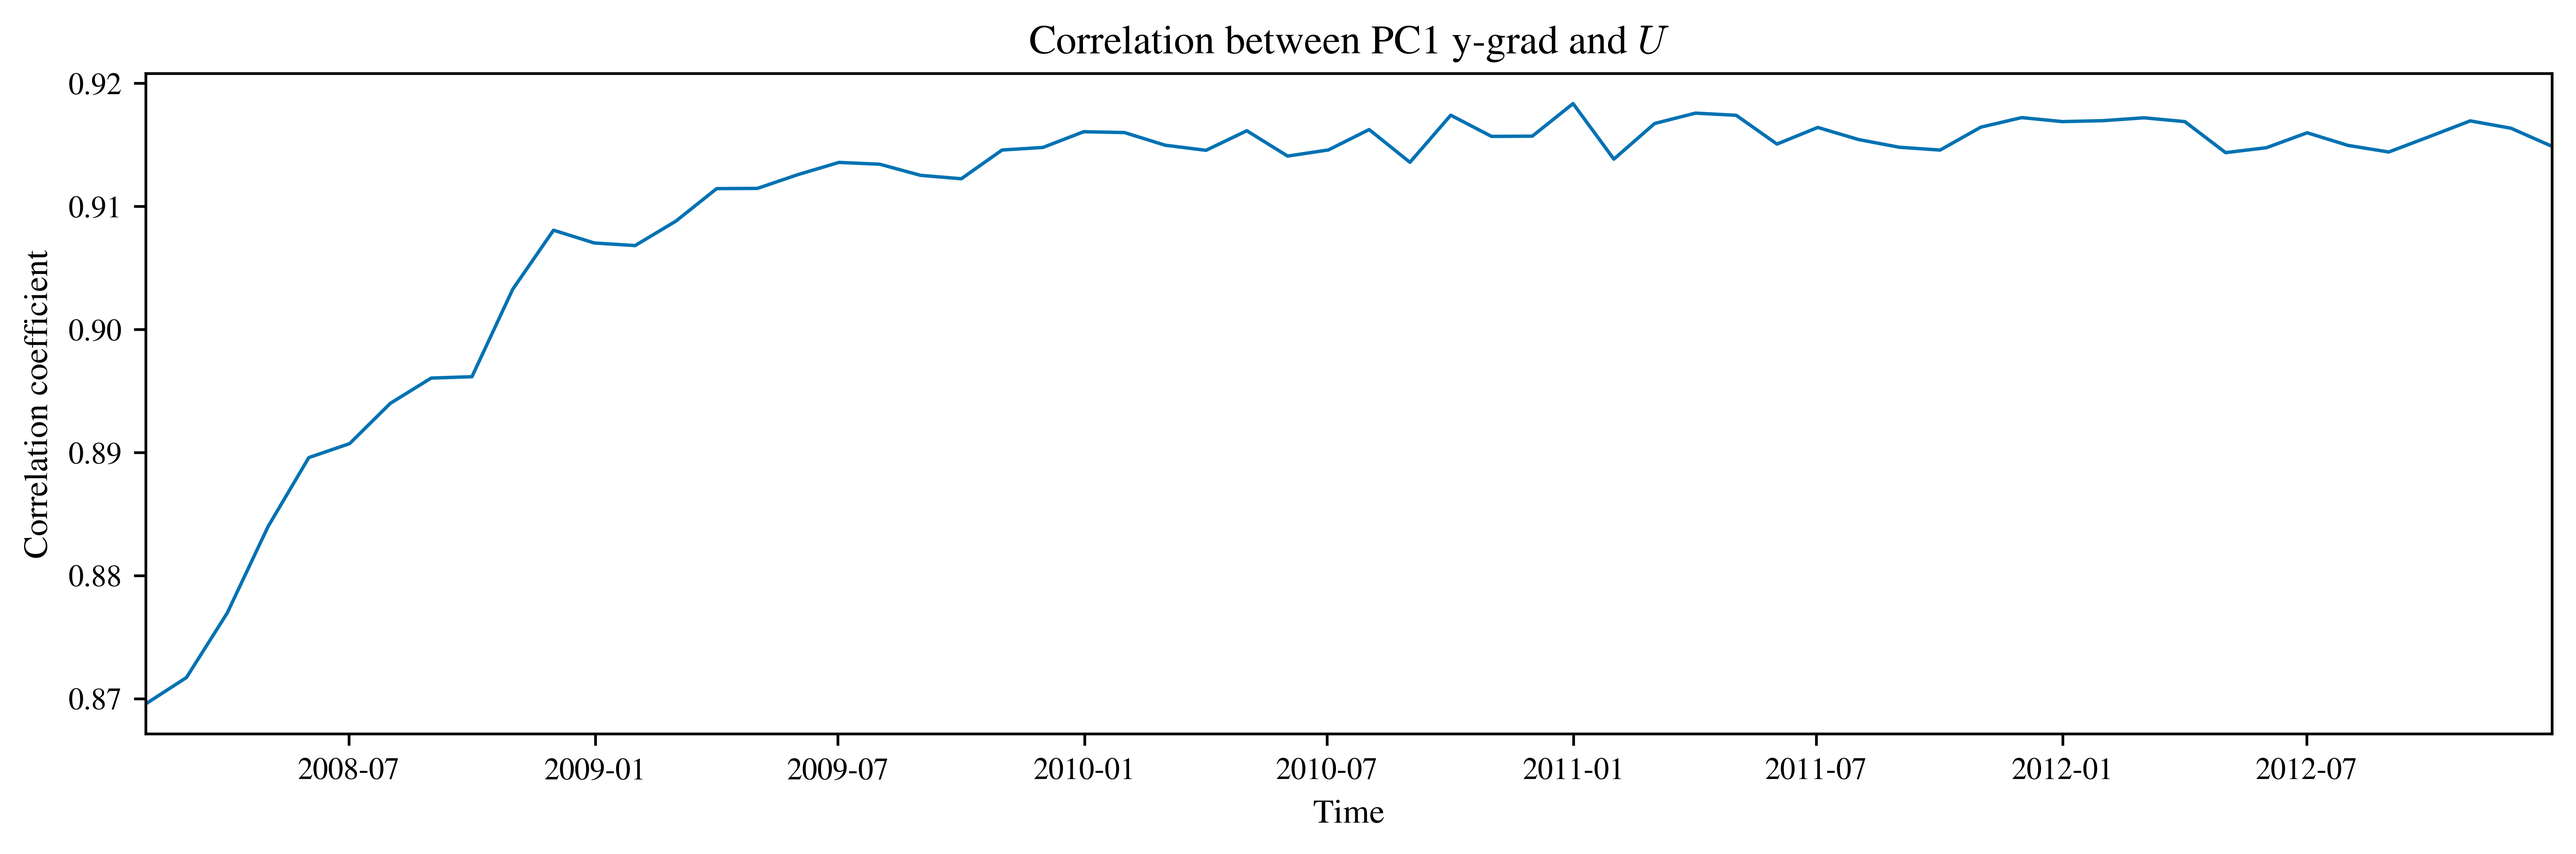
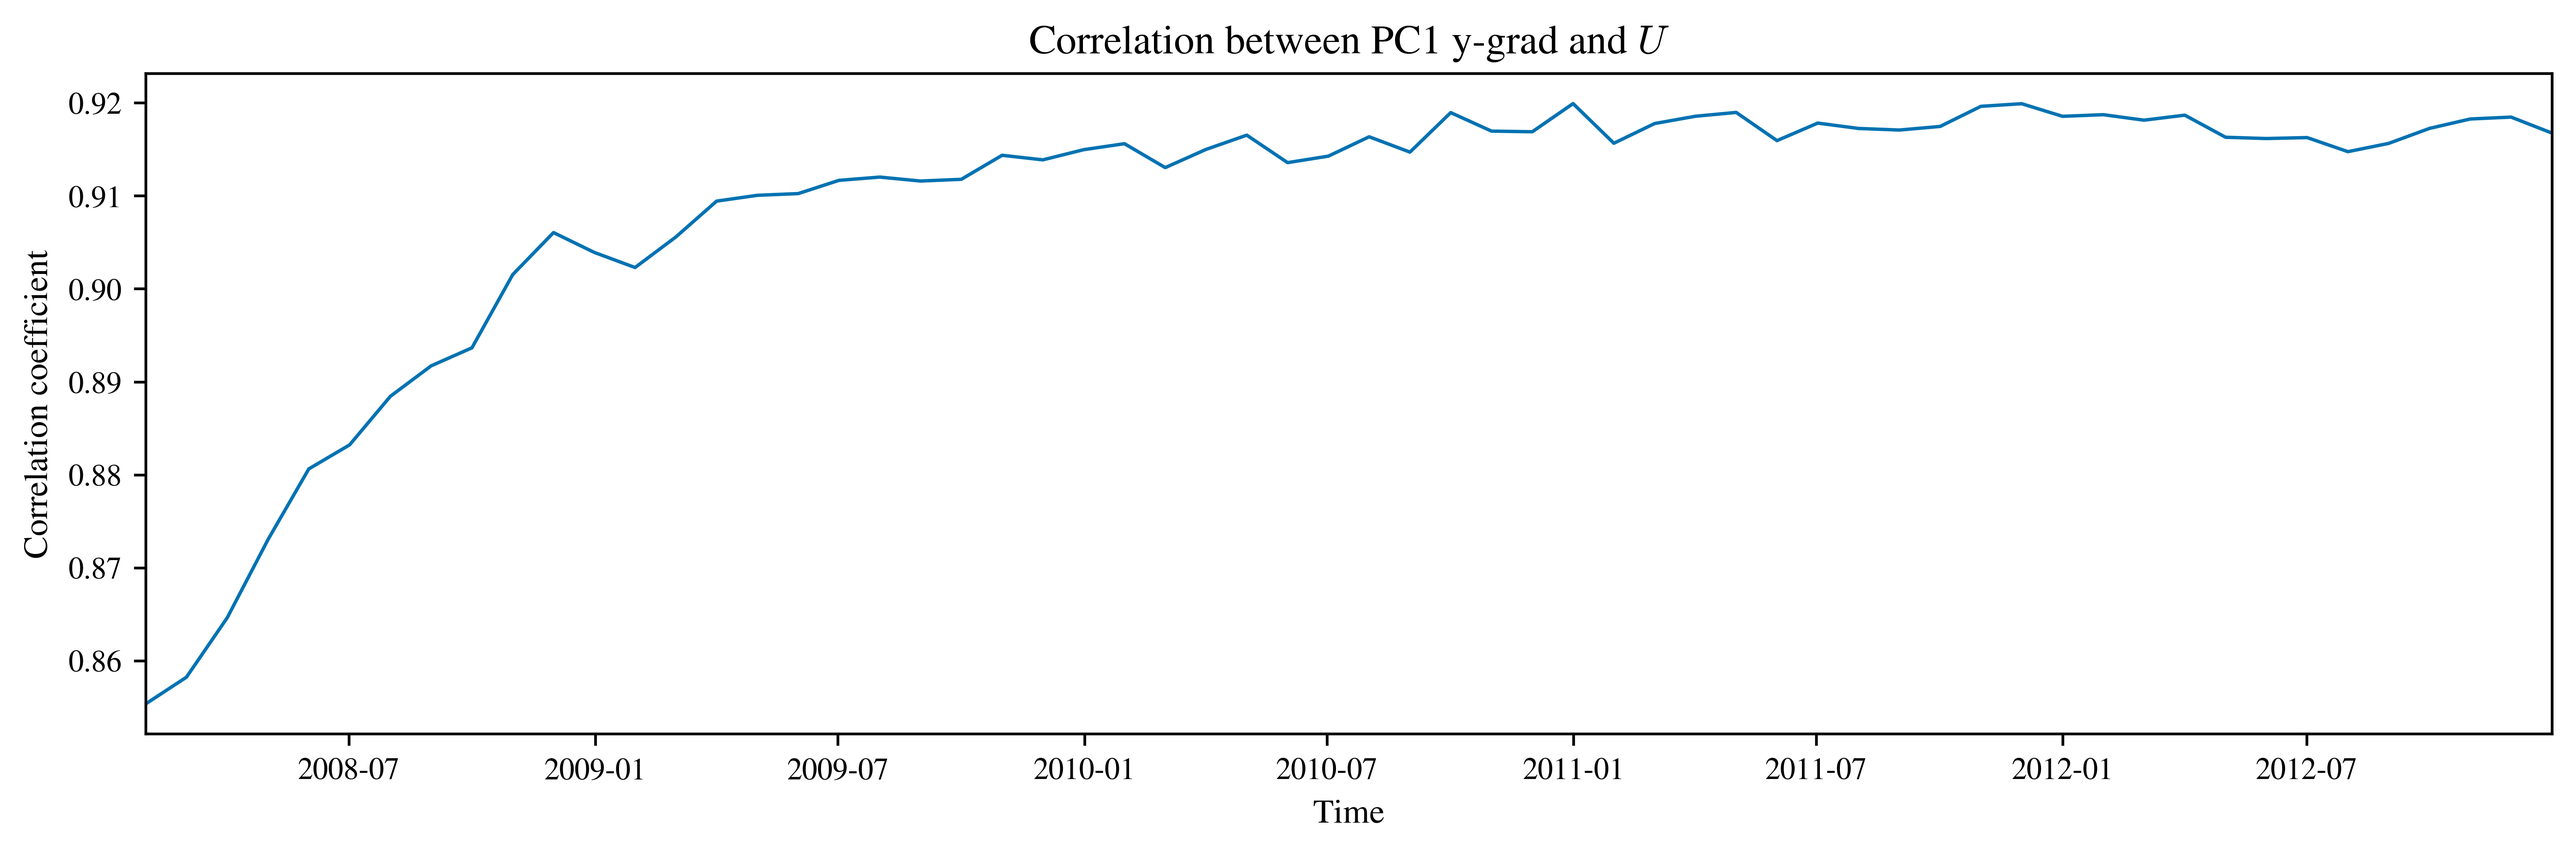
fix: different pc

diff --git a/src/make_figures.py b/src/make_figures.py
@@ -307,20 +307,21 @@ def make_all_figures() -> None:
 
     lsty.mpl_params()
 
+    pc1_y, pc2_y, pc3_y = get_y_sobel(da_temp)
+    pc1_x, pc2_x, pc3_x = get_x_sobel(da_temp)
+
     uvel_ds = xr.open_dataset(cst.UVEL_FILE).isel(Z=cst.EXAMPLE_Z_INDEX)
     ds = xr.open_dataset(cst.DEFAULT_NC)
     xp.sep_plots(
         [
-            ds.PCA_VALUES.isel(time=cst.EXAMPLE_TIME_INDEX, pca=0).differentiate(
-                cst.Y_COORD
-            ),
+            pc1_y,
             uvel_ds.UVEL.isel(time=cst.EXAMPLE_TIME_INDEX),
             ds.PCA_VALUES.isel(pca=0)
             .differentiate(cst.Y_COORD)
             .mean(dim=cst.T_COORD, skipna=True),
             uvel_ds.UVEL.mean(dim=cst.T_COORD, skipna=True),
         ],
-        ["PC1 y-grad", r"$U$ (pcm s$^{-1}$)", "PC1 y-grad", r"$U$ (pcm s$^{-1}$)"],
+        ["PC1 y-grad", r"$U$ (m s$^{-1}$)", "PC1 y-grad", r"$U$ (m s$^{-1}$)"],
     )
     plt.savefig(fig_prefix + "_pc_y_grad.png")
     plt.clf()
@@ -336,9 +337,12 @@ def make_all_figures() -> None:
     cor_list = []
 
     for time_i in range(len(uvel_ds.coords[cst.T_COORD].values)):
+        pc1_y, _, _ = get_y_sobel(
+            xr.open_dataset(cst.DEFAULT_NC).PCA_VALUES.isel(time=time_i)
+        )
         cor = ma.corrcoef(
             ma.masked_invalid(uvel_ds.isel(time=time_i).UVEL.values.ravel()),
-            ma.masked_invalid(pca_ds.isel(time=time_i).PCA_VALUES.values.ravel()),
+            ma.masked_invalid(pc1_y.values.ravel()),
         )
         cor_list.append(cor[1, 0])
 
@@ -359,7 +363,7 @@ def make_all_figures() -> None:
     plt.clf()
 
     #  compare correlations and make correlation graph.
-    logger.info("A: vvel/ y grad over time.")
+    logger.info("A: vvel / y grad over time.")
 
     cor = ma.corrcoef(
         ma.masked_invalid(
@@ -371,17 +375,20 @@ def make_all_figures() -> None:
     )
     print("example corr U", cor)
 
-    logger.info("A: vvel/ y grad in pc1 over time.")
+    logger.info("A: vvel / y grad in pc1 over time.")
 
     vvel_ds = xr.open_dataset(cst.VVEL_FILE).isel(Z=cst.EXAMPLE_Z_INDEX)
-    pca_ds = xr.open_dataset(cst.DEFAULT_NC).isel(pca=0).differentiate(cst.X_COORD)
 
     cor_list = []
 
     for time_i in range(len(uvel_ds.coords[cst.T_COORD].values)):
+        pc1_x, _, _ = get_x_sobel(
+            xr.open_dataset(cst.DEFAULT_NC).isel(time=time_i).PCA_VALUES
+        )
+
         cor = ma.corrcoef(
             ma.masked_invalid(vvel_ds.isel(time=time_i).VVEL.values.ravel()),
-            ma.masked_invalid(pca_ds.isel(time=time_i).PCA_VALUES.values.ravel()),
+            ma.masked_invalid(pc1_x.values.ravel()),
         )
         cor_list.append(cor[1, 0])
 
@@ -398,8 +405,8 @@ def make_all_figures() -> None:
             ],
         ]
     )
-    plt.title("Correlation between PC1 x-grad and $V$")
-    plt.savefig(fig_prefix + "_pc_x_grad_corr.png")
+    plt.title(r"Correlation between $G_{x}$ * PC1 and $V$")
+    plt.savefig(fig_prefix + "_pc_x_sobel_grad_comp.png")
     plt.clf()
 
     # compare meridional velocity to gradient.
@@ -409,20 +416,21 @@ def make_all_figures() -> None:
 
     lsty.mpl_params()
 
+    pc1_y, pc2_y, pc3_y = get_y_sobel(da_temp)
+    pc1_x, pc2_x, pc3_x = get_x_sobel(da_temp)
+
     xp.sep_plots(
         [
-            ds.PCA_VALUES.isel(time=cst.EXAMPLE_TIME_INDEX, pca=0).differentiate(
-                cst.X_COORD
-            ),
+            pc1_x,
             vvel_ds.VVEL.isel(time=cst.EXAMPLE_TIME_INDEX),
             ds.PCA_VALUES.isel(pca=0)
             .differentiate(cst.X_COORD)
             .mean(dim=cst.T_COORD, skipna=True),
             vvel_ds.VVEL.mean(dim=cst.T_COORD, skipna=True),
         ],
-        ["PC1 x-grad", r"$V$ (pcm s$^{-1}$)", "PC1 x-grad", r"$V$ (pcm s$^{-1}$)"],
+        ["$G_x$ * PC1", r"$V$ (m s$^{-1}$)", "$G_x$ * PC1", r"$V$ (m s$^{-1}$)"],
     )
-    plt.savefig(fig_prefix + "_pc_x_grad.png")
+    plt.savefig(fig_prefix + "_pc_x_sobel_grad_comp.png")
     plt.clf()
 
     logger.info("A: finished.")

diff --git a/src/move_figures.py b/src/move_figures.py
@@ -16,44 +16,20 @@ def move(copy_command: str = "cp") -> None:  # this is ok for unix.
     """
     run_name = "010"
     final_loc = "../FBSO/images"
+    fig_prefix = os.path.join(cst.FIGURE_PATH, "RUN_" + run_name)
     name_dict = {
-        os.path.join(
-            cst.FIGURE_PATH, "RUN_" + run_name + "_pc_map.png"
-        ): "figure-1.png",
-        os.path.join(
-            cst.FIGURE_PATH, "RUN_" + run_name + "_s3d_clusters.png"
-        ): "figure-2.png",
-        os.path.join(
-            cst.FIGURE_PATH, "RUN_" + run_name + "_i_metric_dual.png"
-        ): "figure-3.png",
-        os.path.join(
-            cst.FIGURE_PATH,
-            "RUN_" + run_name + "_map_i_comp.png",
-        ): "figure-4.png",
-        os.path.join(
-            cst.FIGURE_PATH, "RUN_" + run_name + "_profiles.png"
-        ): "figure-5.png",
-        os.path.join(
-            cst.FIGURE_PATH, "RUN_" + run_name + "_y_sobel.png"
-        ): "figure-6.png",
-        os.path.join(
-            cst.FIGURE_PATH, "RUN_" + run_name + "_i_metric_comp.png"
-        ): "figure-7.png",
-        os.path.join(
-            cst.FIGURE_PATH, "RUN_" + run_name + "_i_metric_single.png"
-        ): "figure-8.png",
-        os.path.join(
-            cst.FIGURE_PATH, "RUN_" + run_name + "_y_sobel.png"
-        ): "figure-A1.png",
-        os.path.join(
-            cst.FIGURE_PATH, "RUN_" + run_name + "_pc_y_grad_corr.png"
-        ): "figure-A2.png",
-        os.path.join(
-            cst.FIGURE_PATH, "RUN_" + run_name + "_x_sobel.png"
-        ): "figure-A3.png",
-        os.path.join(
-            cst.FIGURE_PATH, "RUN_" + run_name + "_pc_x_grad_corr.png"
-        ): "figure-A4.png",
+        fig_prefix + "_pc_map.png": "figure-1.png",
+        fig_prefix + "_s3d_clusters.png": "figure-2.png",
+        fig_prefix + "_i_metric_dual.png": "figure-3.png",
+        fig_prefix + "_map_i_comp.png": "figure-4.png",
+        fig_prefix + "_profiles.png": "figure-5.png",
+        fig_prefix + "_y_sobel.png": "figure-6.png",
+        fig_prefix + "_i_metric_comp.png": "figure-7.png",
+        fig_prefix + "_i_metric_single.png": "figure-8.png",
+        fig_prefix + "_y_sobel.png": "_pc_y_sobel_grad_comp.png",
+        fig_prefix + "_pc_y_grad_corr.png": "figure-A2.png",
+        fig_prefix + "_pc_x_sobel_grad_comp.png": "figure-A3.png",
+        fig_prefix + "_pc_x_grad_corr.png": "figure-A4.png",
     }
     for key in name_dict:
         os.system(
